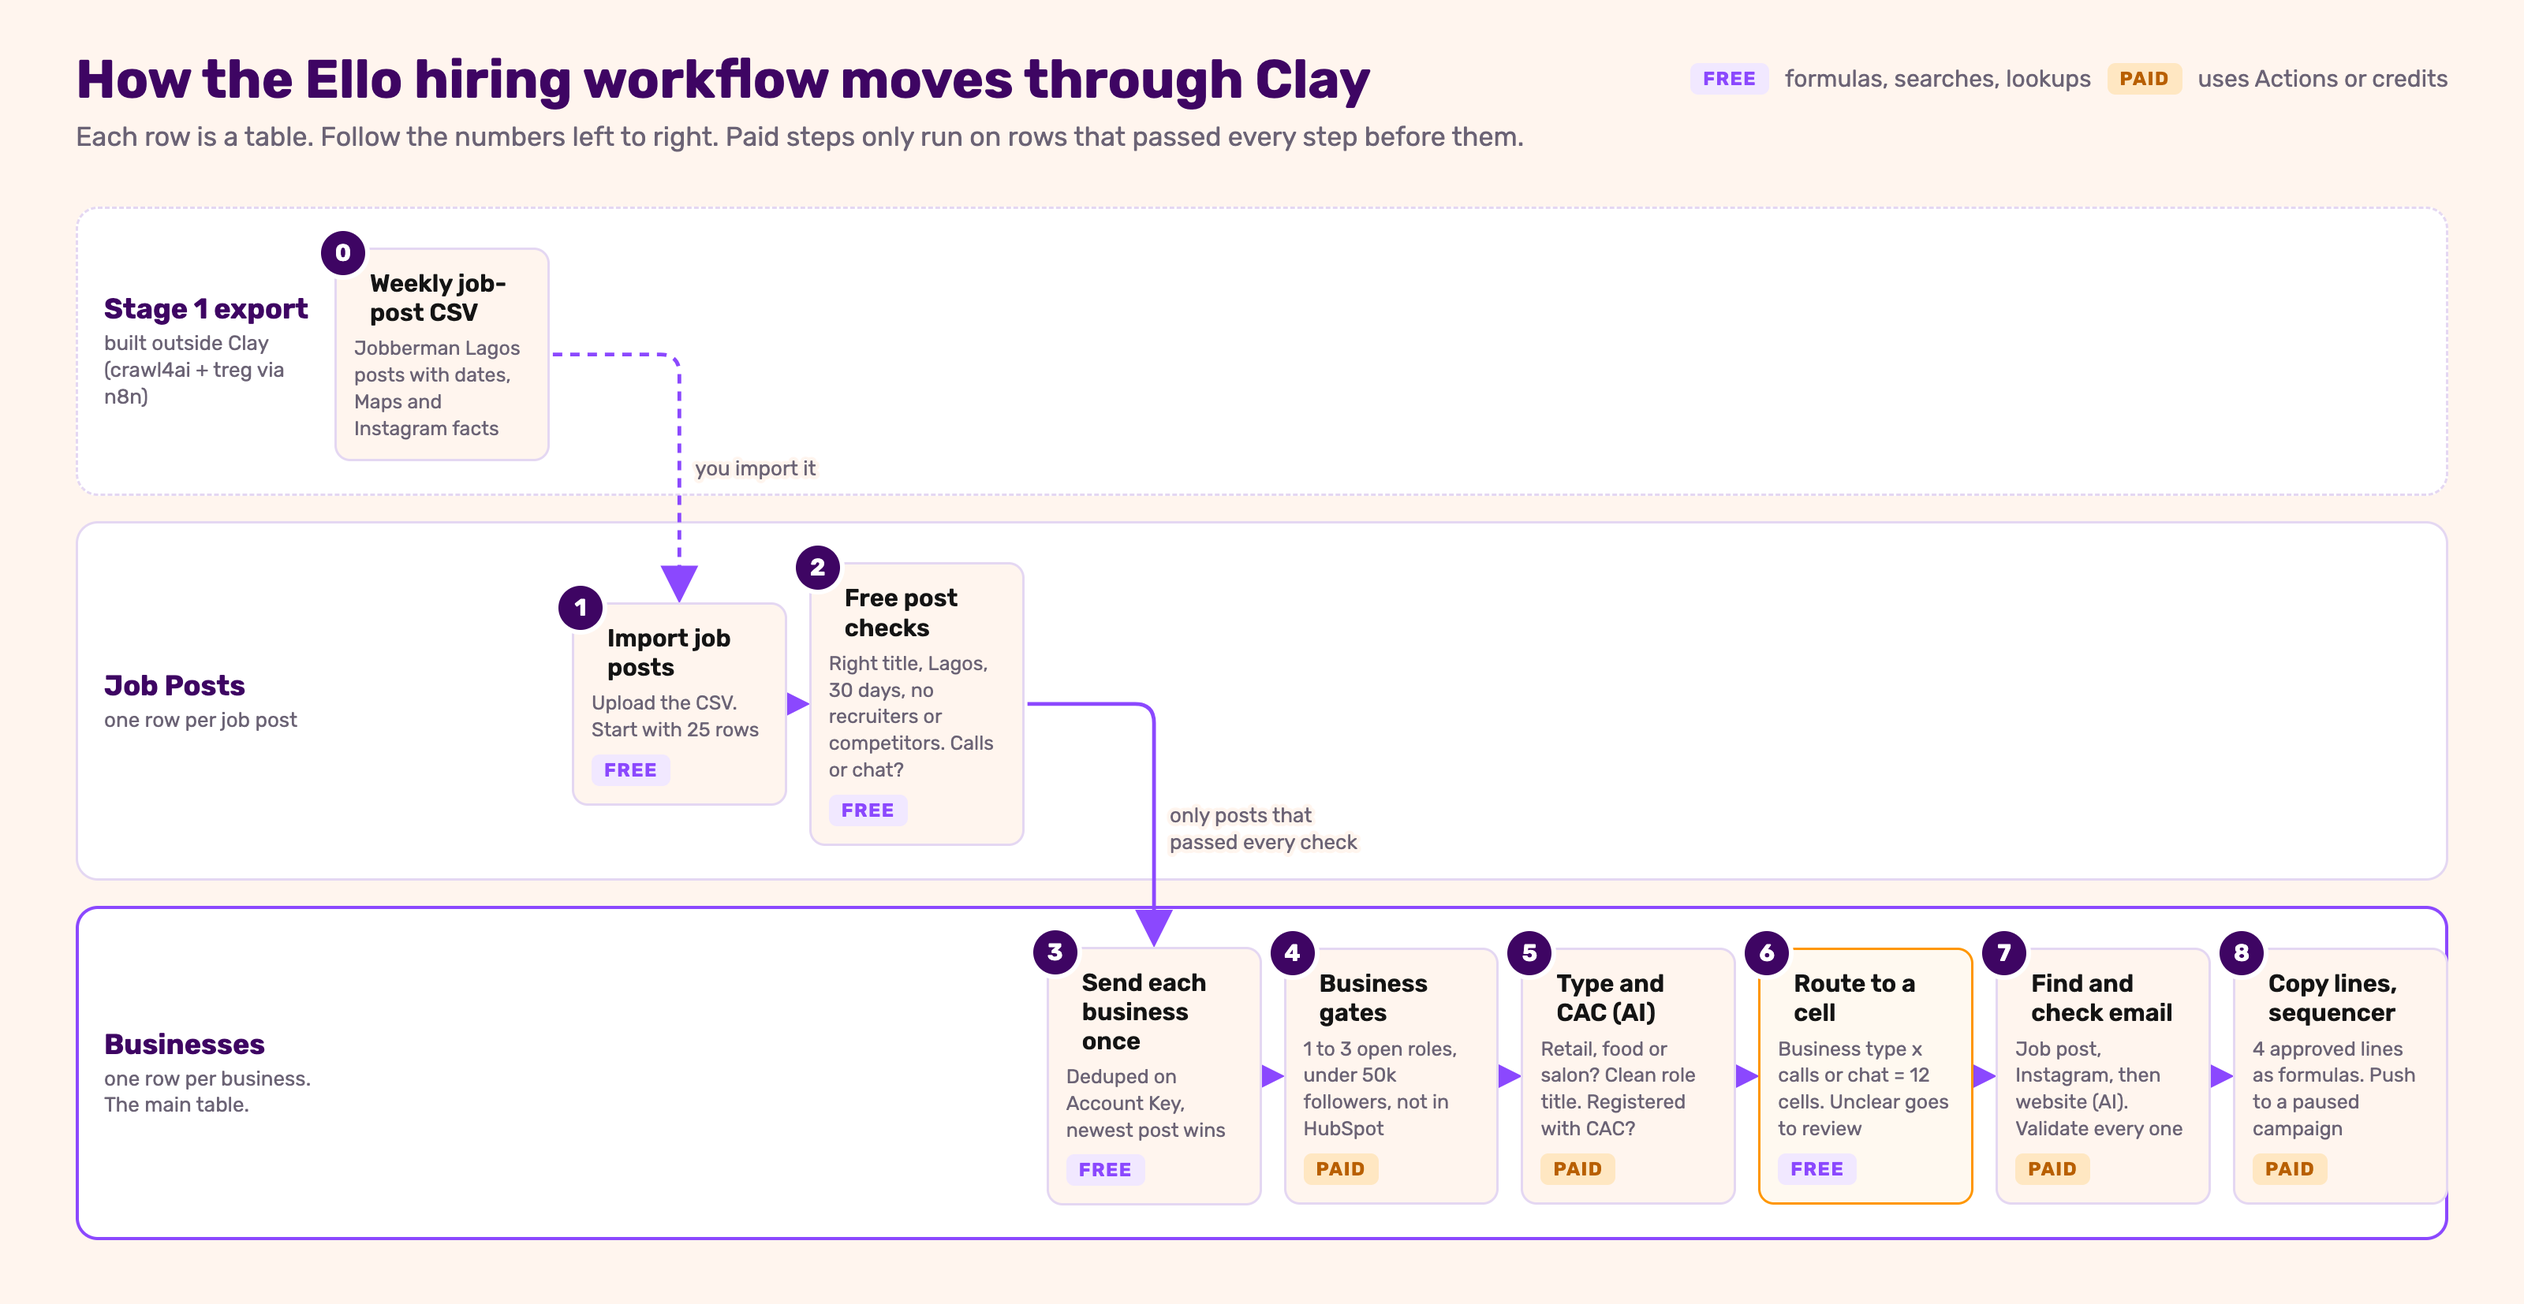
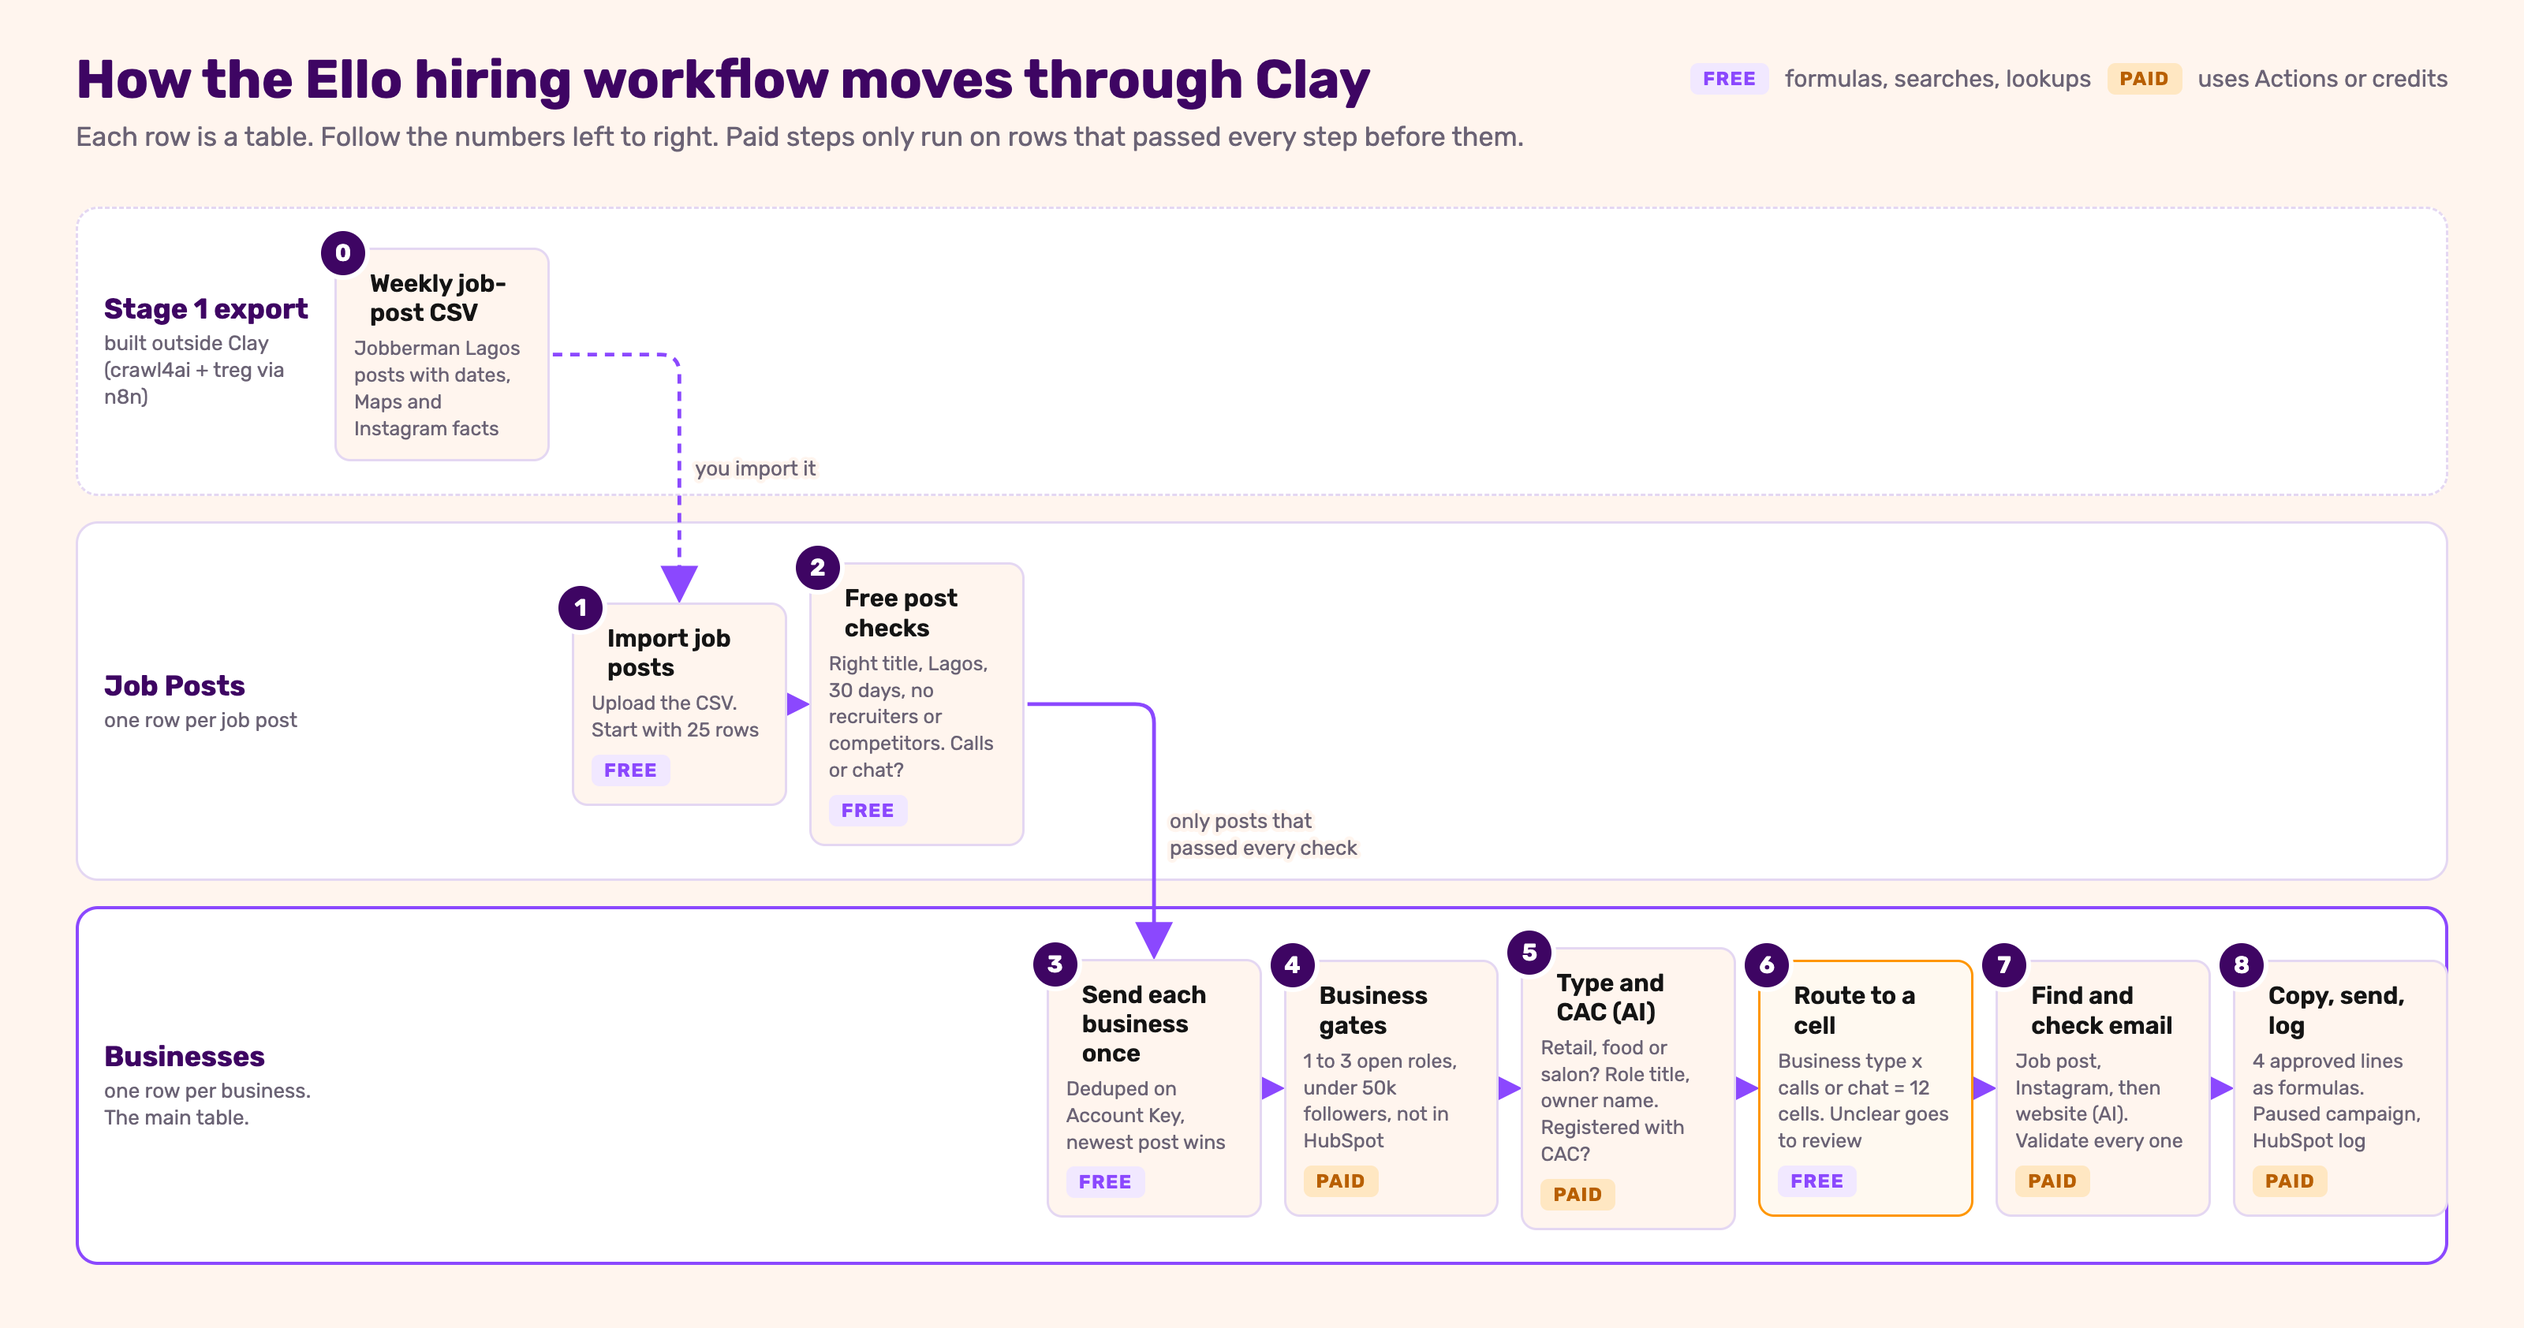
Audit and refresh Clay build guides for Workflows B and C
Add the Email 3 spintax launch check to both guides, the optional
LinkedIn Jobs source to B, and owner name and HubSpot log to B's flow
diagram (re-rendered). Copy verified verbatim against both specs.

diff --git a/output/campaigns/hiring-customer-service-rep/clay-build/hiring-customer-service-rep-clay-flow.html b/output/campaigns/hiring-customer-service-rep/clay-build/hiring-customer-service-rep-clay-flow.html
@@ -23,7 +23,7 @@ h1{font-size:34px;font-weight:700;color:var(--purple)}
 .box .tag{margin-top:7px}
 .box.key{border-color:var(--orange);background:#FFF9F0}
 svg{position:absolute;left:0;top:0;z-index:2;pointer-events:none;overflow:visible}
-</style></head><body><div class="head"><div><h1>How the Ello hiring workflow moves through Clay</h1><div class="sub">Each row is a table. Follow the numbers left to right. Paid steps only run on rows that passed every step before them.</div></div><div class="legend"><span class="tag free">FREE</span> formulas, searches, lookups <span class="tag paid">PAID</span> uses Actions or credits</div></div><div class="grid"><div class="lane dashed" style="grid-row:1"></div><div class="lname" style="grid-row:1"><b>Stage 1 export</b><span>built outside Clay<br>(crawl4ai + treg via n8n)</span></div><div class="lane" style="grid-row:2"></div><div class="lname" style="grid-row:2"><b>Job Posts</b><span>one row per job post</span></div><div class="lane main" style="grid-row:3"></div><div class="lname" style="grid-row:3"><b>Businesses</b><span>one row per business.<br>The main table.</span></div><div class="box" id="x" style="grid-row:1;grid-column:2"><div class="n">0</div><h3>Weekly job-post CSV</h3><p>Jobberman Lagos posts with dates, Maps and Instagram facts</p></div><div class="box" id="s1" style="grid-row:2;grid-column:3"><div class="n">1</div><h3>Import job posts</h3><p>Upload the CSV. Start with 25 rows</p><span class="tag free">FREE</span></div><div class="box" id="s2" style="grid-row:2;grid-column:4"><div class="n">2</div><h3>Free post checks</h3><p>Right title, Lagos, 30 days, no recruiters or competitors. Calls or chat?</p><span class="tag free">FREE</span></div><div class="box" id="s3" style="grid-row:3;grid-column:5"><div class="n">3</div><h3>Send each business once</h3><p>Deduped on Account Key, newest post wins</p><span class="tag free">FREE</span></div><div class="box" id="s4" style="grid-row:3;grid-column:6"><div class="n">4</div><h3>Business gates</h3><p>1 to 3 open roles, under 50k followers, not in HubSpot</p><span class="tag paid">PAID</span></div><div class="box" id="s5" style="grid-row:3;grid-column:7"><div class="n">5</div><h3>Type and CAC (AI)</h3><p>Retail, food or salon? Clean role title. Registered with CAC?</p><span class="tag paid">PAID</span></div><div class="box key" id="s6" style="grid-row:3;grid-column:8"><div class="n">6</div><h3>Route to a cell</h3><p>Business type x calls or chat = 12 cells. Unclear goes to review</p><span class="tag free">FREE</span></div><div class="box" id="s7" style="grid-row:3;grid-column:9"><div class="n">7</div><h3>Find and check email</h3><p>Job post, Instagram, then website (AI). Validate every one</p><span class="tag paid">PAID</span></div><div class="box" id="s8" style="grid-row:3;grid-column:10"><div class="n">8</div><h3>Copy lines, sequencer</h3><p>4 approved lines as formulas. Push to a paused campaign</p><span class="tag paid">PAID</span></div></div><svg id="s"><defs><marker id="a" markerWidth="10" markerHeight="10" refX="8" refY="5" orient="auto"><path d="M0,0 L10,5 L0,10 z" fill="#8B48FE"/></marker></defs></svg><script>
+</style></head><body><div class="head"><div><h1>How the Ello hiring workflow moves through Clay</h1><div class="sub">Each row is a table. Follow the numbers left to right. Paid steps only run on rows that passed every step before them.</div></div><div class="legend"><span class="tag free">FREE</span> formulas, searches, lookups <span class="tag paid">PAID</span> uses Actions or credits</div></div><div class="grid"><div class="lane dashed" style="grid-row:1"></div><div class="lname" style="grid-row:1"><b>Stage 1 export</b><span>built outside Clay<br>(crawl4ai + treg via n8n)</span></div><div class="lane" style="grid-row:2"></div><div class="lname" style="grid-row:2"><b>Job Posts</b><span>one row per job post</span></div><div class="lane main" style="grid-row:3"></div><div class="lname" style="grid-row:3"><b>Businesses</b><span>one row per business.<br>The main table.</span></div><div class="box" id="x" style="grid-row:1;grid-column:2"><div class="n">0</div><h3>Weekly job-post CSV</h3><p>Jobberman Lagos posts with dates, Maps and Instagram facts</p></div><div class="box" id="s1" style="grid-row:2;grid-column:3"><div class="n">1</div><h3>Import job posts</h3><p>Upload the CSV. Start with 25 rows</p><span class="tag free">FREE</span></div><div class="box" id="s2" style="grid-row:2;grid-column:4"><div class="n">2</div><h3>Free post checks</h3><p>Right title, Lagos, 30 days, no recruiters or competitors. Calls or chat?</p><span class="tag free">FREE</span></div><div class="box" id="s3" style="grid-row:3;grid-column:5"><div class="n">3</div><h3>Send each business once</h3><p>Deduped on Account Key, newest post wins</p><span class="tag free">FREE</span></div><div class="box" id="s4" style="grid-row:3;grid-column:6"><div class="n">4</div><h3>Business gates</h3><p>1 to 3 open roles, under 50k followers, not in HubSpot</p><span class="tag paid">PAID</span></div><div class="box" id="s5" style="grid-row:3;grid-column:7"><div class="n">5</div><h3>Type and CAC (AI)</h3><p>Retail, food or salon? Role title, owner name. Registered with CAC?</p><span class="tag paid">PAID</span></div><div class="box key" id="s6" style="grid-row:3;grid-column:8"><div class="n">6</div><h3>Route to a cell</h3><p>Business type x calls or chat = 12 cells. Unclear goes to review</p><span class="tag free">FREE</span></div><div class="box" id="s7" style="grid-row:3;grid-column:9"><div class="n">7</div><h3>Find and check email</h3><p>Job post, Instagram, then website (AI). Validate every one</p><span class="tag paid">PAID</span></div><div class="box" id="s8" style="grid-row:3;grid-column:10"><div class="n">8</div><h3>Copy, send, log</h3><p>4 approved lines as formulas. Paused campaign, HubSpot log</p><span class="tag paid">PAID</span></div></div><svg id="s"><defs><marker id="a" markerWidth="10" markerHeight="10" refX="8" refY="5" orient="auto"><path d="M0,0 L10,5 L0,10 z" fill="#8B48FE"/></marker></defs></svg><script>
 const s=document.getElementById('s'),V='#8B48FE',ARROWS=[{"from": "x", "to": "s1", "label": "you import it", "dashed": true}, {"from": "s1", "to": "s2"}, {"from": "s2", "to": "s3", "label": "only posts that\npassed every check"}, {"from": "s3", "to": "s4"}, {"from": "s4", "to": "s5"}, {"from": "s5", "to": "s6"}, {"from": "s6", "to": "s7"}, {"from": "s7", "to": "s8"}];
 function r(id){const b=document.getElementById(id).getBoundingClientRect();return{left:b.left+scrollX,right:b.right+scrollX,top:b.top+scrollY,bottom:b.bottom+scrollY,width:b.width,height:b.height}}
 function path(d,dash){const p=document.createElementNS('http://www.w3.org/2000/svg','path');p.setAttribute('d',d);p.setAttribute('fill','none');p.setAttribute('stroke',V);p.setAttribute('stroke-width','2.4');p.setAttribute('marker-end','url(#a)');if(dash)p.setAttribute('stroke-dasharray','6 5');s.appendChild(p)}

diff --git a/output/campaigns/hiring-customer-service-rep/clay-build/hiring-customer-service-rep-clay-build-guide.md b/output/campaigns/hiring-customer-service-rep/clay-build/hiring-customer-service-rep-clay-build-guide.md
@@ -91,7 +91,7 @@ Tick these off **before** the session. None of them should be done live.
   - Also confirm the internal names of two built-in properties: lifecycle stage (expected `lifecyclestage`) and number of open deals (expected `hs_num_open_deals`). HubSpot → Settings → Properties → Company → click the property → the internal name is under its label. If either differs, use the real name in Part 4.2 and tell the spec owner.
 - [ ] **CAC test, before the build test.** Pick 5 Lagos businesses you already know are CAC-registered. You'll run the Part 5.3 Claygent on them first. If it can't read the CAC search results, you'll do the CAC check by hand instead.
 - [ ] **The spec is open** next to you: `output/campaigns/hiring-customer-service-rep/workflow-spec.md`. Sections 2 (who's in and out), 3a (the two stages), 4 (signals), 5 (cells), 6 (variables) and the Copy section are what you're building.
-- [ ] **The Stage 1 CSV is ready.** The weekly crawl in spec Section 3a isn't built yet. For this first test, run `tools/crawl4ai` once on the Jobberman Lagos customer service pages (and the Maps and Instagram lookups), or fill the CSV by hand from 25 real posts. It must have exactly these 14 columns, in any order:
+- [ ] **The Stage 1 CSV is ready.** The weekly crawl in spec Section 3a isn't built yet. For this first test, run `tools/crawl4ai` once on the Jobberman Lagos customer service pages **and each job page** (the list page has no full description), plus the Maps and Instagram lookups, or fill the CSV by hand from 25 real posts. LinkedIn Jobs (Lagos) is the spec's secondary source, through treg (`apify.linkedin.search.jobs`, $0.001 per call on 2026-11-12; check the price before the call). It's optional for this test; if you use it, write its posts into the same CSV columns. It must have exactly these 14 columns, in any order:
 
   `employer_name, title, location, posted_date, description, job_url, job_post_email, maps_place_id, maps_category, maps_website, instagram_handle, instagram_followers, instagram_email, instagram_bio`
 
@@ -607,7 +607,7 @@ In the `Ready to send` view, hide helper formulas (Chat Words?, Call Words?, Mat
 
 1. In the sequencer, create a campaign called `Ello · Hiring CS rep · Lagos` and **leave it paused**. Settings: plain text on, open tracking off, ignore out-of-office replies on.
 2. Create 3 steps. Step 1 starts a new thread. Step 2 waits **3 days** and replies in the same thread. Step 3 waits **5 more days** (day 8) and replies in the same thread. Subjects stay the same, with `Re:` on steps 2 and 3.
-3. Paste the templates below **exactly as they are**, then convert `{{…}}` and `{a|b}` to your sequencer's syntax. Custom fields: `business_name`, `e1l1`, `e1l2`, `e2l1`, `e3l1`. `first_name` is usually a built-in field.
+3. Paste the templates below **exactly as they are**, then convert `{{…}}` and `{a|b}` to your sequencer's syntax. Custom fields: `business_name`, `e1l1`, `e1l2`, `e2l1`, `e3l1`. `first_name` is usually a built-in field. **Launch check (spec Section 7):** Step 3's closing line puts `{{business_name}}` inside a spintax option. Send yourself a test of Step 3 and check the business name filled in both options; if your sequencer breaks on a variable inside spintax, ask the spec owner before changing the wording.
 
 **Step 1 (day 0, new thread)**
 

diff --git a/work-log/2026-W47.md b/work-log/2026-W47.md
@@ -68,4 +68,10 @@ Note: the 2026-11-17 17:34 entry (clay-build-plan import) was logged in 2026-W46
 
 ## 2026-11-20 18:50 WAT
 - Looked up competitor Instagram handles for Workflow C (free: website fetches and 6 standard web searches; no treg calls). Confirmed from each company's own website: `cherrybrooksofficial` (CallAI, parent CherryBrooks LLC, gocallai.ng), `pressone.africa`, `getbumpa`, `fresha`. Zana (usezanaai.com), Obeks (obeks.com.ng) and NativeTalk (nativetalk.io) link no Instagram on homepage or contact page, and search found none; left NEEDS INPUT, nothing guessed.
-- Wrote the four into output/campaigns/instagram-order-posts/workflow-spec.md Section 2 (with sources) and into the guide's `Competitor?` formula and Before you start item. Not committed.
+- Wrote the four into output/campaigns/instagram-order-posts/workflow-spec.md Section 2 (with sources) and into the guide's `Competitor?` formula and Before you start item. Committed and pushed (4a82536). The 18:50 time above was an estimate; the system clock read 18:45 at the next entry.
+
+## 2026-11-20 18:45 WAT (system clock)
+- Ran /clay-build-plan on Workflows C and B (test size 25). Both clay-build folders already held guides updated today, so Fredrick chose "audit and refresh" over regenerating: existing guides kept, checked against the skill's clay-rules, guide template and QA list, and against the current specs.
+- Copy check by script: C 34 of 34 dynamic lines, subject, 3 email templates and the DM fixed line verbatim; B 14 of 14 lines, 3 templates, subject verbatim. 0 em dashes, image paths resolve, 11 Parts each, every paid column has a run condition. Lookups key on Instagram handle (C) and Account Key (B), not domain: a deliberate, documented exception (most businesses have no website).
+- Fixed: both guides' Part 10 now carry the spec's Email 3 launch check (variable inside spintax); B's Before you start adds the secondary LinkedIn Jobs source (treg, optional) and "each job page". B flow step 5 adds owner name, step 8 becomes "Copy, send, log" with the HubSpot log.
+- Re-rendered both flows (selenium in a scratchpad venv); C's PNG came out identical, B's updated. Checked both PNGs: no overlaps, no box over 5 lines. Specs not edited. Not committed.

diff --git a/output/campaigns/instagram-order-posts/clay-build/instagram-order-posts-clay-build-guide.md b/output/campaigns/instagram-order-posts/clay-build/instagram-order-posts-clay-build-guide.md
@@ -661,7 +661,7 @@ Hide helper formulas (DM in Caption?, Site To Check…) in the operator views. *
 
 1. In the sequencer, create a campaign called `Ello · Instagram order posts · Lagos` and **leave it paused**. Settings: plain text on, open tracking off, ignore out-of-office replies on.
 2. Create 3 steps. Step 1 starts a new thread. Step 2 waits **3 days** and replies in the same thread. Step 3 waits **5 more days** (day 8) and replies in the same thread. Subjects stay the same, with `Re:` on steps 2 and 3.
-3. Paste the templates below **exactly**, then convert `{{…}}` and `{a|b}` to your sequencer's syntax. Custom fields: `business_name`, `e1l1`, `e1l2`, `e2l1`, `e3l1`.
+3. Paste the templates below **exactly**, then convert `{{…}}` and `{a|b}` to your sequencer's syntax. Custom fields: `business_name`, `e1l1`, `e1l2`, `e2l1`, `e3l1`. **Launch check (spec Section 7):** Step 3's closing line puts `{{business_name}}` inside a spintax option. Send yourself a test of Step 3 and check the business name filled in both options; if your sequencer breaks on a variable inside spintax, ask the spec owner before changing the wording.
 
 **Step 1 (day 0, new thread)**
 
